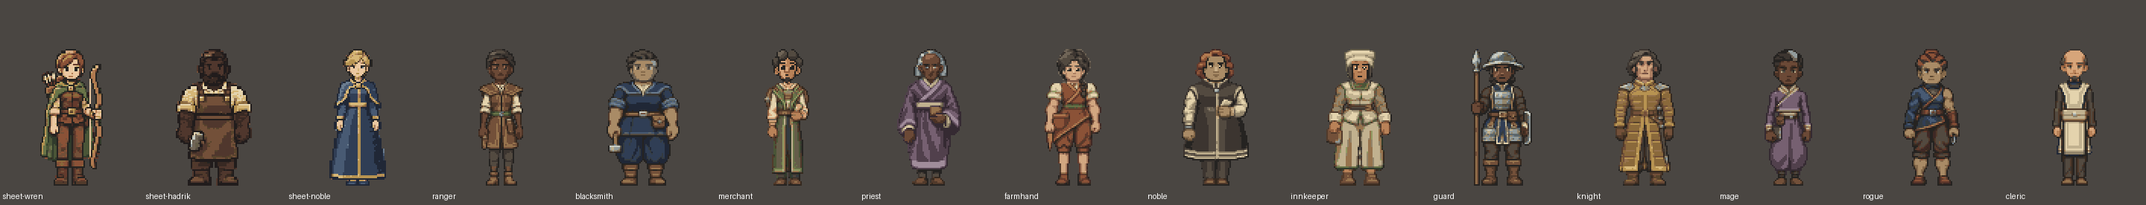
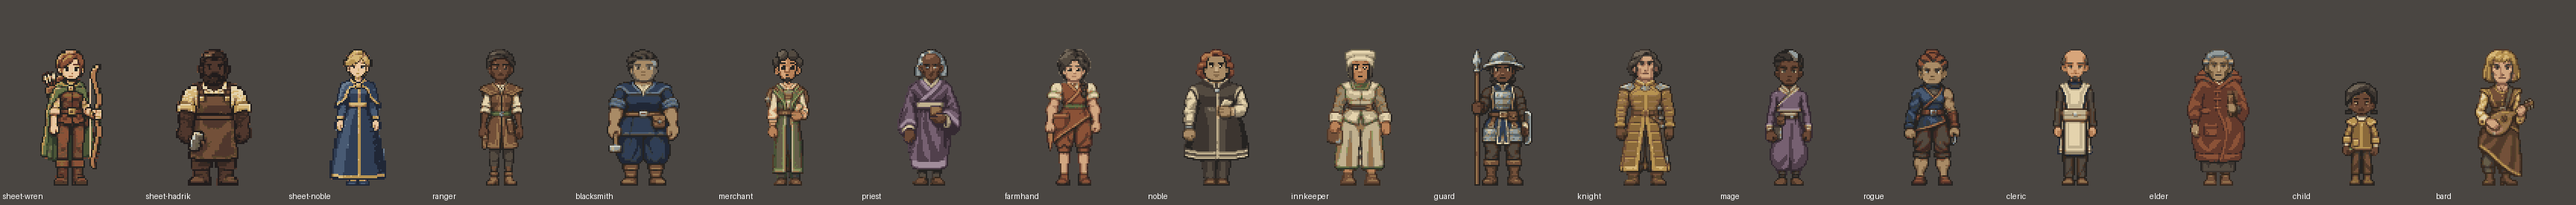
art-drop: figure r23 new designs in style D batch: elder child bard

diff --git a/art-drop/figures/r23/run/NOTES-elder.md b/art-drop/figures/r23/run/NOTES-elder.md
@@ -1,0 +1,40 @@
+# Enna Kes — elder, Round 23
+
+Delivered all 15 source drawings and 15 reduced sprites, the four-row sheet, three walking GIFs, the front face crop, and the comparison against the three reference fronts. This is a complete file set, but it is **not an exact visual match to every rule**; the remaining limitations are listed below.
+
+## Production and checks
+
+- The right-facing standing side was drawn first. Every subsequent request attached this run's side image; every request attached `style-ref/STYLE-SHEET.png` with the required style-only instruction. No reference character was used as Enna's design.
+- There were 26 image-tool requests: 15 final views and 11 replacement attempts. The final unmodified 1024 × 1536 tool outputs are in `big/`. Earlier versions, scripts, semantic-mask audits, prompt records and check results are in `../scratch/`.
+- `../scratch/prompts.json` records the complete prompt set. The built-in image tool drew every figure. Python performed background keying, box reduction, palette mapping, limited skin/hair cleanup, assembly and checks. No facial feature, body part or animation pose was drawn or transplanted with code.
+- All sprites are 96 × 128 RGBA with binary alpha, crown at row 33 and lowest occupied sole at row 124. Every figure occupies 92 rows and its complete silhouette is horizontally centered, within half a pixel.
+- The complete sprite set uses exactly 24 opaque colours, all from auburn, charcoal, steel, leather, linen and olive. No additional ramp was introduced. Skin and hair use separate semantic masks; dark facial features remain outside the skin-tone mapping. Masks combine inspected source regions and colour tests, so their accuracy is visual rather than formally guaranteed at every boundary pixel.
+- Auburn palette mapping uses the same four source-value bands across all views to avoid unstable shade changes. This is colour quantization, not cloth smoothing. Only isolated interior skin/hair pixels receive the specified neighbourhood cleanup; eye, brow, mouth and contour regions are protected.
+- `elder-sheet.png` is 1152 × 1536, with 3× nearest-neighbour sprites on #4a4642. Rows are standing front/side/back, walk-side 0–3, walk-front 0–3, walk-back 0–3.
+- All three GIFs contain four distinct 288 × 384 frames at 160 ms each, looping indefinitely. They use a solid #4a4642 preview background. Individual sprite PNGs retain transparency.
+- `elder-face.png` is a 6× crop of front rows 33–63. `elder-vs-sheet.png` places the front beside wren, hadrik and noble at 3×. The standing front/side/back head comparison at 6× is in `../scratch/head-comparison.png`.
+- Every tool drawing was visually inspected. The final sheet, face crop and reference comparison were opened at their full exported size. Every reduced pose and head was examined in enlarged inspection sheets; all decoded GIF frames were inspected and their timing checked programmatically. This was frame-by-frame review, not a claim of watching real-time playback.
+
+## Redraws
+
+1. The initial standing side and front fans were too spread. Both were redrawn as a closed parallel-rib bundle.
+2. The standing side received one face-pass redraw for a larger head, simpler skin planes and clearer eye/mouth.
+3. The standing front received two face-pass redraws. The first reduction had crowded cheek marks and weak eyes; the second increased head width and strengthened the mouth and eyes.
+4. Walk-front 1, 2 and 3 each received a face-pass redraw for stronger mouths and cleaner broad planes. Walk-front 1 also had noisy coat shading.
+5. Walk-back 2 received three redraw attempts. The initial shading broke into noisy clusters after quantization. Two replacements changed the coat values too much; the final attempt used the standing rear drawing as the edit target to restore its folds and palette relationships.
+
+## Honest weaknesses and rules not fully met
+
+- The faces remain softer and less crisply constructed than the reference faces. Both front eyes survive, but their tiny catches are faint or lost in several reduced views. I cannot claim that every eye is an exact clean 2×2–3 px cluster with a clearly retained catch. Mouths survive unevenly, with walk-front 1 and 3 still weaker than the standing front. Repeated image-tool face passes improved this without fully solving it.
+- Simplifying the face for readability reduced some of the original age cues. Enna can read as younger than 76, particularly in the front walking views. The profile is more convincing than the front.
+- The upper-back stoop is visible but milder than the requested **deep** stoop. The coat does retain the rounded cocoon and contracted hem; its padded bulk also hides much of the spare limb anatomy.
+- The cropped grey hair has substantial blocks, but the exact three stepped ear locks are not equally clear in every view. Some crowns are rounder than the requested flat crop.
+- The source hand drawings contain more finger separations than requested, and some reduced mitten masses are approximately 6–7 pixels across rather than strictly 3–5.
+- The closed fan becomes a narrow brown mark at sprite size, especially in profile, and can read as a small stick bundle rather than unmistakably as a folding fan. It remains in the anatomical left hand; its occlusion in rear views is intentional.
+- The outfit adds layered overlap, bound edges, three toggles, a waist tab and patch pocket. Its final contrast is more subdued and its trim less finely resolved than the style sheet. Local contours are not uniformly one pixel after area reduction, and some isolated contour/crease pixels remain.
+- Independent source drawings produce small differences in head size, hair highlights, coat folds, pocket position and hand scale between frames. These can create visible shimmer. Side contact frames 0 and 2 have similar boot silhouettes, so their opposite-leg assignment is less obvious than ideal under the long skirt. Passing strides are restrained but not a rigorously constructed animation cycle.
+- Exact style parity with the reference sheet was not achieved despite redraws. The design is distinct from all three reference characters, but the reference faces and material separation remain more polished.
+
+## Scope disclosure
+
+No other artwork, existing sprites outside `style-ref/`, other Downloads folders or repositories were inspected. All project artifacts and intermediates were written here. One required installed image-generation instruction file was read outside this folder because a higher-priority runtime instruction required it; this is an exception to the requested filesystem-reading restriction. The image tool also automatically retained originals in its own default storage. The files delivered here were saved from the returned image bytes, without opening that external storage.

diff --git a/art-drop/figures/r23/run/NOTES-child.md b/art-drop/figures/r23/run/NOTES-child.md
@@ -1,0 +1,52 @@
+# Davi Ren — Round 23
+
+## Delivered
+
+- Fifteen independently image-tool-drawn originals in `big/`, each containing one full-body figure on magenta.
+- Fifteen transparent 96 × 128 exports in `sprites/`.
+- `child-sheet.png`: 3×, background #4A4642; standing front/side/back, then four side, four front and four back walking frames.
+- Three 3× walking GIFs, four frames each, 160 ms per frame, looping.
+- `child-face.png`: front head at 6×.
+- `child-vs-sheet.png`: Davi, Wren, Hadrik and Noble fronts at 3×, with aligned sole baselines.
+
+## Interpretation and process
+
+Round 23 took priority over the older no-reference and tiny-dot-eye instructions. The child-specific 70-row height took priority over the generic 92-row adult instruction. Davi's costume gained a gold shoulder facing/back yoke, ochre seam and hem trim, a small gold pocket and linen undercuffs. The square smock, thin trousers, low hair tabs and small right-hand toy remain the identifying features. No belt, cloak or armour was added.
+
+The style sheet was attached to every image request with the required style-only warning. The initial drawing was the right-facing side. All subsequent drawing requests included a side drawing from this run; some also included this run's front or back. No other character imagery was used as an identity reference.
+
+Python performed magenta keying, alpha-aware BOX reduction, palette snapping through material masks, isolated-pixel skin/hair cleanup, placement, crops, sheets, GIF export and checks. It did not draw figures or paint replacement facial features. Facial feature regions and silhouettes were protected from despeckling. Palette and source reduction scripts, masks, checks and retained superseded images are in `../scratch/`.
+
+Every returned drawing was inspected. The final sheet, face crop, comparison, six-head reference comparison and all decoded GIF frames were inspected at their exported sizes. GIF inspection used their decoded frames; smoothness was not verified through a live animation player.
+
+## Redraws
+
+- The first side had a long hem and a raised toy. It was redrawn with a shorter smock and lowered hand.
+- Early side/front/back exports were too elongated, with small heads and weak facial marks. They were redrawn; the side needed another proportion correction to match the compact front.
+- The first side-contact drawing was replaced after the proportion correction.
+- The front received an additional face-pass request for stronger eyes, brows and a separated mouth. The resulting source changed only slightly; this did not fully solve the reduced face's softness.
+- Side passing frame 3 was redrawn because its raised foot was too far behind the pelvis. The replacement brings the feet together, but the lift is very subtle.
+
+## Verified export properties
+
+- All 15 sprites are RGBA, exactly 96 × 128.
+- All have binary alpha, crown row 55 and lowest occupied sole row 124: exactly 70 occupied rows.
+- The complete equipped silhouette is centred within one pixel.
+- The combined sprite palette contains 23 colours, all from the specified charcoal, leather, moss, gold, linen and deep-skin ramps. No new ramp, pure black or pure white was introduced.
+- All three GIFs are 288 × 384, contain four frames and retain 160 ms timing for every frame.
+- Detailed machine checks are in `../scratch/final-checks.json`.
+
+## Honest weaknesses and unmet details
+
+- This is an approximation of the sheet's rendering, not an exact craft match. The faces are smoother and more schematic, and the garments have fewer intricate clusters than the references. The gold shoulder facing is somewhat more pronounced than the original plain-smock concept.
+- Both front eyes and their light marks remain visible, but the dark eye clusters do not consistently meet the requested 2×2–3-pixel construction after BOX reduction. Brows survive; the nose and mouth remain low-contrast and can read together as one small expression. The extra face redraw did not bring them fully to the reference's clarity.
+- Head scale is not perfectly constant: the side head reads larger than the back head. The approximate shared head unit is closer after redraws, but is not exactly 23 rows in every view.
+- The two low plaits are blunt and visible, but some rear views read as short hanging tabs rather than strongly lateral stops. Broad scalp highlights are more band-like than three separately defined masses.
+- The tiny boat stays on the anatomical right, but at 70 rows it reads more readily as a green-topped brown object than unmistakably as a boat. Hull and fingers merge in some frames; not every grip has a distinct thumb notch. Some hand masses exceed the desired 3–5 pixels.
+- Skin and hair masks combine geometric regions with source-colour classification. They keep the two palette sets separate by mask, but semantic accuracy at blended hair/skin edges and around the brown boat/hand overlap is not guaranteed pixel-for-pixel.
+- The independent drawings introduce small changes in head contours, cuff widths, pocket position and body width. These create visible animation wobble. Front and back contact/passing poses are close and can read as a shuffle. In side view the opposite-leg contact phases have very similar leg silhouettes, and passing frame 3 is nearly planted rather than a clearly lifted foot. The animation is not a rigorously constructed heel-to-toe cycle.
+- Upper-left lighting is broadly consistent, but reduction produces occasional material-colour ambiguity and some contours thicker than one pixel at overlaps. The source originals contain shading variations beyond four exact tones; the exported sprites are palette-limited.
+- The requested face crop coordinates, rows 33–about 60, are adult coordinates and would mostly show empty space for this child. `child-face.png` instead crops rows 55–82 and columns 30–66, enlarged 6×, so the actual face is visible. The reference head comparison uses the reference adults' rows 33–64.
+- The image service automatically stored its own originals in its managed output location. No outside file was opened or copied: the returned image bytes were written directly into this folder. All deliberate filesystem work and all supplied image-reference paths remained inside this folder.
+
+These limitations are recorded rather than claiming complete visual compliance.

diff --git a/art-drop/figures/r23/run/NOTES-bard.md b/art-drop/figures/r23/run/NOTES-bard.md
@@ -1,0 +1,47 @@
+# Mirel Sorn — Round 23 notes
+
+## Delivered
+
+- 15 image-tool originals in `big/`, each one full-body figure on magenta.
+- 15 transparent 96 × 128 sprites in `sprites/`: standing front, right-facing side and back; four frames for each walking direction.
+- `bard-sheet.png`: four rows, 3× nearest-neighbour display, #4a4642 background. The unused fourth standing cell is blank.
+- `bard-walkside.gif`, `bard-walkfront.gif`, `bard-walkback.gif`: four frames each, 3×, 160 ms per frame, looping.
+- `bard-face.png`: front crop, logical x 24–71 and rows 33–63, at 6×.
+- `bard-vs-sheet.png`: Mirel, Wren, Hadrik, noble, in that order, at 3×.
+
+## Production and checks
+
+The image tool drew every figure, including every walking pose and every face revision. No body parts, expressions or poses were drawn or moved with Python. The style sheet was attached to every generation request with the required style-only instruction. Other image inputs were exclusively Mirel images from this run.
+
+The first image was the right-facing side. Its revised version anchored the later views. The standing side received a final proportion revision using its own earlier side and walking drawings. Costume enrichment consists of ochre waistcoat edging, buttons, a narrow belt, thick cuffs and a trimmed wrap hem; the cittern remains the sole large prop.
+
+Processing used magenta range keying, cropped BOX reduction to 92 occupied rows, centring, semantic skin/hair region masks, palette snapping and isolated-pixel cleanup within skin/hair masks. Feature regions protect eyes, brows, mouth and catches during cleanup. The masks combine spatial regions with source pigment; they are approximations, not perfect anatomical segmentations. No face pixels were painted into the sprites. There was no extra outline-painting pass.
+
+Final automated checks passed: all 15 sprites are RGBA 96 × 128; alpha is only 0 or 255; occupied extents are rows 33 through 124 inclusive; the union is 21 opaque colours from the six prescribed ramps; no added ramp, pure black, pure white or retained magenta. All GIFs contain four frames with 160 ms duration. Validation details and the processing script are in `../scratch/`.
+
+Every generated original was visually inspected. The final full-size sheet, face crop, comparison, all visible heads at 6×, and all decoded GIF frames were inspected. GIF frame inspection establishes frame appearance, not a guarantee of perfectly smooth motion.
+
+## Redraws
+
+- Rejected the initial tall-body side/front/back drawings because their heads were too small relative to the bodies. Redrew the side anchor and standing views.
+- Redrew the back to correct a reversed skirt diagonal and a hanging right hand.
+- Redrew `walkside0` to correct its reversed skirt diagonal.
+- Redrew the standing front for stronger eye/brow definition after the reduced-face comparison.
+- Redrew the standing side again to reduce its oversized head relative to the walk views.
+- Redrew `walkside3` to distinguish the opposite passing pose with the rear foot lifted.
+- `walkfront2` required two mouth-focused redraws after its first reduced mouth disappeared. The final mouth survives but is heavier than in the other frames.
+
+Rejected drawings, prompts, processing records and review images are retained in `../scratch/`.
+
+## Honest weaknesses and incomplete rules
+
+This is a complete file set, but it is not an exact match to every artistic constraint.
+
+- The faces and clothing contours remain softer and more densely shaded than the style sheet after BOX reduction. Eyes and brows are readable, but tiny eye catches are inconsistent. The front nose is broader than the requested small plane, and `walkfront2` has an overly heavy mouth. The reference sheet still has cleaner facial clusters.
+- Head size is approximately four-head construction, with some profiles larger than the standing front. Crown and sole alignment is exact; intermediate body landmarks are not identical across frames.
+- The gold bob, mature angular face, narrow waist, diagonal overskirt and cittern distinguish Mirel from the reference characters. However, the right-ear tuck is not consistently visible, and some bob sections have more highlight fragments than the intended four heavy locks.
+- The waistcoat shoulders are slightly more flared, the sleeves fuller, and the back waistcoat hem longer than the fitted, waist-length specification. Some back frames suggest a short lower waist panel. Some source hands show too many finger divisions instead of simple mittens.
+- The image tool added several tuning glints, a bridge fitting and a belt buckle, exceeding the requested single steel tuning accent. These are small, but the extra metal details remain.
+- The walk is restrained and supported, but upper-body shapes, hair highlights and instrument details drift between separately drawn frames. Opposite side-contact legs are not as clearly distinguished as they should be, and the heavy skirt hides much of the front/back gait. These are usable short loops with visible variation, not perfectly registered production animation.
+- Skin/hair masks are approximate at mixed boundary pixels; exact material membership of every antialiased source edge cannot be guaranteed. Only approved palette colours appear in the exports.
+- The image service automatically created its own cache outside this folder. Those cached files were not opened or copied; returned image data was saved directly into this project. A mandatory image-workflow instruction file was read from the system skill location outside the folder. Thus the literal no-outside-read requirement was not fully met. No outside character art, other Downloads folders, repositories or existing sprites were read or used.
